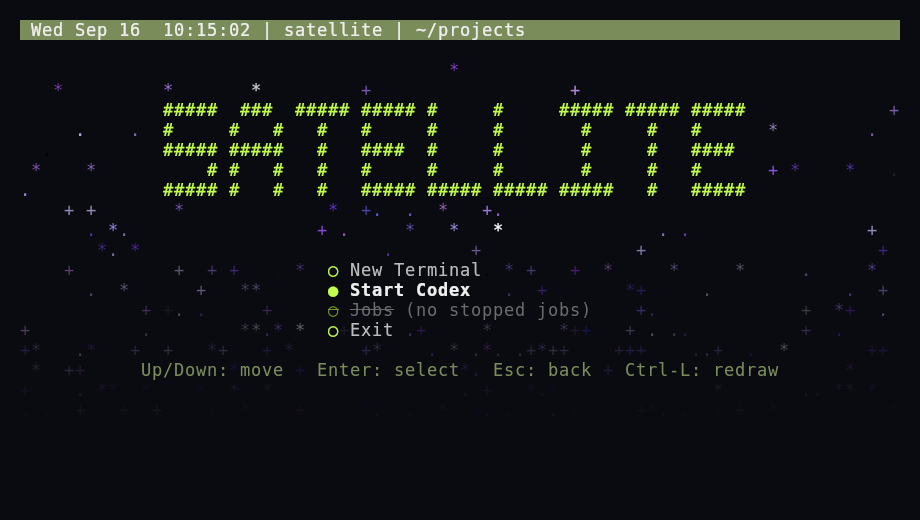
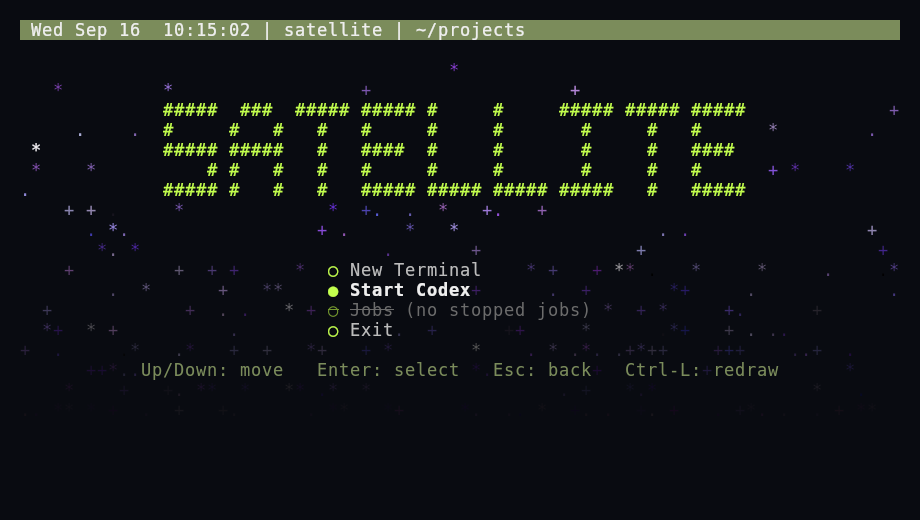
Keep option gaps clear and refine shimmer hue and white peak

diff --git a/README.md b/README.md
@@ -110,10 +110,10 @@ in about 1.47 seconds. Broad slow shoulders give each outer quarter of the diago
 40% of the travel time, making the ease visible beyond the tiny corners. The middle
 keeps the previous sweep's peak speed; each flash still rises for 60 ms and fades
 for 240 ms. Stars quickly approach white, then slowly regain saturation with
-a 70° hue shift that persists after the band passes. Star white peaks also fade
-from full brightness at the top toward black one row beyond the field, capped
-by the existing row brightness. The bottom uses the step before black. This
-deeper shimmer fade leaves ordinary twinkle brightness and text accents intact.
+a 74° hue shift that persists after the band passes. Star shimmer peaks are pure
+white across the top 30% of the field. Over the remaining 70%, peaks fade toward
+black one row beyond the field; the bottom uses the step before black. Ordinary
+twinkle brightness and text accent fades remain independent.
 Stars and title characters briefly turn bold around their own near-white sweep
 peak, then return to normal weight as they fade. The selected option stays bold.
 The star field now reaches the control hints and up to two rows below them when
@@ -128,7 +128,12 @@ density above baseline. Uniform births take priority, so the horizon cannot
 crowd out the top when reaching the one-birth-per-frame limit. Both streams use
 the same 2.5× rate setting and smooth sweep envelope.
 
-Stars extend behind the option block and control hints, including their spaces.
+Baseline stars leave spaces inside option labels and the circle-to-label gap
+empty, including spaces in visible disabled notes. Initial generation and
+replacement use the same exclusions. If scrolling places these spaces over
+existing baseline stars, those stars relocate using the normal replacement fade.
+Twinkles retain their existing spawn rules. Stars still extend through control
+hint spaces and around the option block.
 Foreground letters and circle markers always win over stars. The background
 retains its state under text, so scrolling reveals existing stars rather than
 rerandomizing them. The title keeps its surrounding clear space.
@@ -139,7 +144,7 @@ so most are near the center. Each star also gets a random baseline saturation
 between its palette color's original saturation and 80%, retained for its lifetime.
 The title and option circles join the same sweep with a shared hue 180°
 opposite the center of the star palette. Their baseline hue advances by the same
-70° per sweep. Selected-option bolding and disabled-marker strike/dimming remain
+74° per sweep. Selected-option bolding and disabled-marker strike/dimming remain
 intact during the title's bold flash. Control hints share the title
 hue at 35% saturation and 55% brightness, and join the same diagonal sweep.
 During each sweep the full-width status background eases from
@@ -160,7 +165,7 @@ EZ_MENU_TWINKLE_RATE_PERCENT=250 # 100 = original rate; 250 = 2.5x (range 1–10
 EZ_MENU_STAR_DENSITY_PERCENT=50 # baseline quantity relative to the original (range 0–100)
 EZ_MENU_HORIZON_DENSITY_PERCENT=600 # bottom vs top density; 100 = flat (range 100–800)
 EZ_MENU_SWEEP_DURATION_MS=1467  # total movement and final flash
-EZ_MENU_SWEEP_HUE_STEP=70       # degrees added per sweep
+EZ_MENU_SWEEP_HUE_STEP=74       # degrees added per sweep
 EZ_MENU_STAR_SATURATION_MAX=800 # thousandths: 800 = 80%
 EZ_MENU_STAR_HUE_SPREAD=60      # total range centered on the palette hue
 EZ_MENU_SWEEP_ACCENT_OFFSET=180 # complementary title/marker hue
@@ -273,7 +278,7 @@ and device speed vary. The larger stress case can still exceed the 50 ms frame
 budget at the busiest point. These optimization gains involved no reduction in
 visual effects or density; the later 50% baseline setting is a separate visual choice.
 
-With the current 50% baseline, replenishment, and deeper shimmer fade, a separate
+With the 50% baseline, replenishment, and original full-height shimmer fade, a separate
 run (including replacement fade-ins) measured 7 ms mean / 20 ms p95 at 80×24
 and 16 ms mean / 51 ms p95 at 160×40.
 Those figures include the intentional density change and are not a measurement

diff --git a/AGENTS.md b/AGENTS.md
@@ -40,8 +40,11 @@
   a Gaussian-like distribution rather than independently cycling palette hues.
 - Extend the star field past hints when rows permit, and stretch the option-row
   brightness falloff to the field's last row. Stars extend through option/hint
-  spaces; foreground glyphs occlude them. Preserve stars beneath text across
-  scrolling, and never spawn a twinkle on a glyph. The footer fades into darkness.
+  hint spaces; foreground glyphs occlude them. Exclude baseline stars from
+  option-label spaces (including visible notes) and the circle-to-label gap in
+  initial generation and replacement. Relocate newly excluded stars on scroll.
+  Preserve other stars beneath text, and never spawn a twinkle on a glyph.
+  The footer fades into darkness.
 - Weight individual twinkle opportunities smoothly through the sweep. A sweep
   reduces their frequency but must never switch births off abruptly. Existing
   twinkles continue their fade and share the crossing white/hue treatment.
@@ -57,9 +60,10 @@
 - Sample the downward fade with an exclusive bottom endpoint: the last visible
   row uses the color step before the darkest endpoint, never that endpoint itself.
 - Default baseline quantity is 50% of the original, independent of the 2.5×
-  twinkle rate. Star shimmer white peaks approach black across the full field
-  height, with an exclusive bottom endpoint and no increase over the existing
-  row peak. Ordinary twinkle brightness and text accent fades remain independent.
+  twinkle rate. Star shimmer peaks are pure white throughout the top 30%;
+  the remaining 70% approaches black with an exclusive bottom endpoint. Ordinary
+  twinkle brightness and text accent fades remain independent. Default hue
+  rotation is 74° per sweep.
 - Status backgrounds ease to the settled hint color during each sweep.
 - Bold stars and title cells briefly at their own near-white sweep peaks, then
   restore normal weight. Keep selected-option bolding and disabled styling intact.
